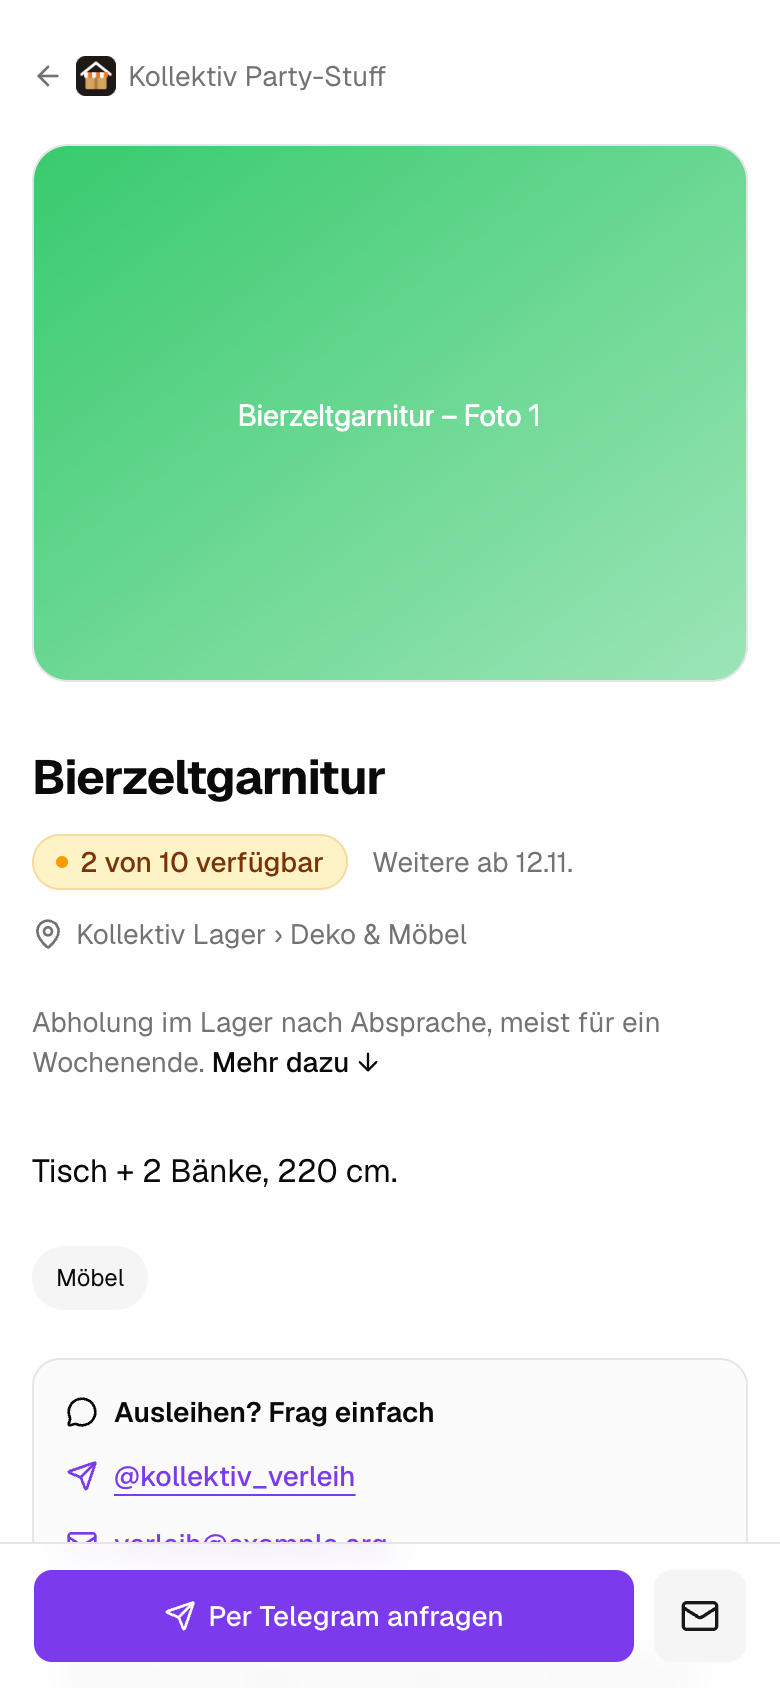
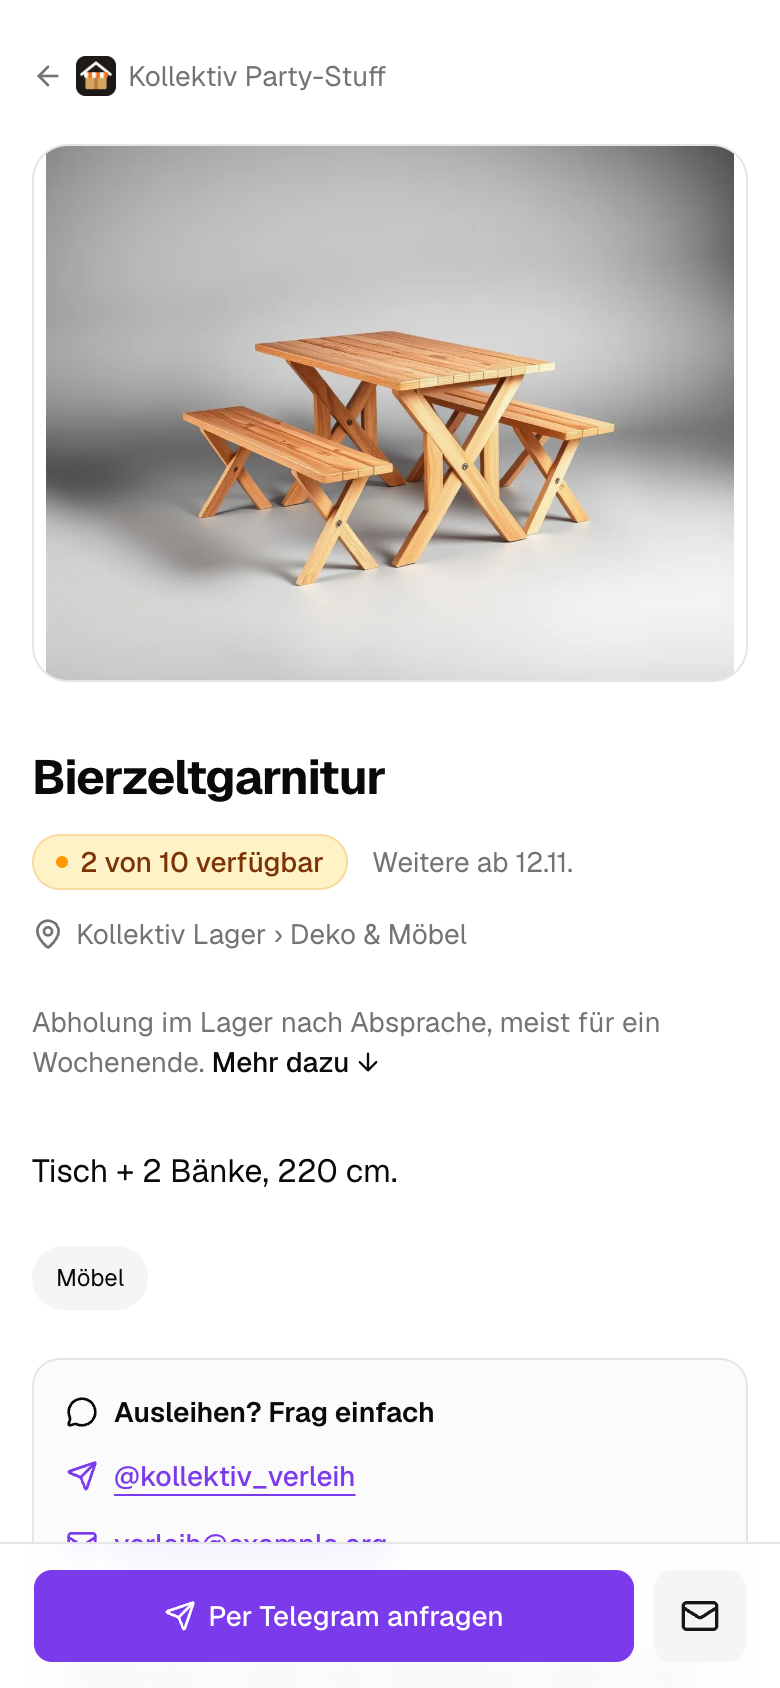
README auf Deutsch; Beispielfotos im Testmodus und neue Screenshots
Im Mock-Modus liefern KI-generierte Produktfotos (src/lib/homebox/mock-photos)
statt der farbigen SVG-Platzhalter; ohne Datei bleibt der Platzhalter.

Changed region(s): [[0.0308, 0.0616, 0.9538, 0.4005]]

diff --git a/src/lib/homebox/mock.ts b/src/lib/homebox/mock.ts
@@ -1,4 +1,6 @@
 import "server-only";
+import { existsSync, readFileSync } from "node:fs";
+import { join } from "node:path";
 import type { HomeboxApi } from "./client";
 import type { HbEntity, HbTreeItem } from "./types";
 
@@ -86,17 +88,36 @@ function tag(name: string) {
   return { id: tagIds.get(name)!, name };
 }
 
+/**
+ * Beispielfotos (KI-generiert, frei verwendbar) unter mock-photos/<item-id>.webp, weitere
+ * Ansichten als <item-id>-2.webp usw. Ohne Datei gibt es den farbigen SVG-Platzhalter.
+ */
+const PHOTO_DIR = join(/*turbopackIgnore: true*/ process.cwd(), "src/lib/homebox/mock-photos");
+
+function photoFile(itemId: string, n: number): string | null {
+  const f = join(PHOTO_DIR, n === 1 ? `${itemId}.webp` : `${itemId}-${n}.webp`);
+  return existsSync(f) ? f : null;
+}
+
+/** Anzahl Fotos: echte Dateien, wenn vorhanden (keine Doppelten), sonst wie im Seed */
+function photoCount(s: Seed): number {
+  if (!photoFile(s.id, 1)) return s.photos ?? 0;
+  let n = 1;
+  while (photoFile(s.id, n + 1)) n++;
+  return n;
+}
+
 function build(): Map<string, HbEntity> {
   const byId = new Map(seeds.map((s) => [s.id, s]));
   const store = new Map<string, HbEntity>();
   for (const s of seeds) {
     const parent = s.parent ? byId.get(s.parent) : undefined;
     const attachments = [
-      ...Array.from({ length: s.photos ?? 0 }, (_, i) => ({
+      ...Array.from({ length: photoCount(s) }, (_, i) => ({
         id: `${s.id}-photo-${i + 1}`,
         type: "photo",
         title: `${s.name} – Foto ${i + 1}`,
-        mimeType: "image/svg+xml",
+        mimeType: photoFile(s.id, i + 1) ? "image/webp" : "image/svg+xml",
         primary: i === 0,
       })),
       ...(s.manual
@@ -186,6 +207,12 @@ export const mockApi: HomeboxApi = {
     if (a.type !== "photo") {
       const pdf = "%PDF-1.1\n1 0 obj<</Type/Catalog/Pages 2 0 R>>endobj 2 0 obj<</Type/Pages/Kids[3 0 R]/Count 1>>endobj 3 0 obj<</Type/Page/Parent 2 0 R/MediaBox[0 0 300 144]>>endobj\ntrailer<</Root 1 0 R>>\n%%EOF";
       return { body: new TextEncoder().encode(pdf).buffer as ArrayBuffer, contentType: "application/pdf" };
+    }
+    const n = Number(attachmentId.match(/-photo-(\d+)$/)?.[1] ?? 1);
+    const file = photoFile(entityId, n);
+    if (file) {
+      const buf = readFileSync(file);
+      return { body: buf.buffer.slice(buf.byteOffset, buf.byteOffset + buf.byteLength) as ArrayBuffer, contentType: "image/webp" };
     }
     return {
       body: new TextEncoder().encode(placeholderSvg(a.title)).buffer as ArrayBuffer,

diff --git a/README.md b/README.md
@@ -5,128 +5,135 @@
 <h1 align="center">Homebox Front</h1>
 
 <p align="center">
-  A public, shop-like window onto your <a href="https://github.com/sysadminsmedia/homebox">Homebox</a>
-  inventory: send someone a link and they see what you have and whether it is free to borrow.
+  Ein öffentliches Schaufenster im Shop-Stil für dein <a href="https://github.com/sysadminsmedia/homebox">Homebox</a>-Inventar:
+  Schick jemandem einen Link, und er sieht, was du hast und ob es gerade zu haben ist.
 </p>
 
-> **A note on AI:** Homebox Front is developed by a human with AI assistance
-> (mostly Claude Code) helping write, refactor and review code. It's not "vibe
-> coded" or auto-generated: every change is reviewed, tested against a live
-> Homebox and shipped intentionally. That said, I'm all in on AI as a
-> development tool. It massively speeds up the work and lets a solo developer
-> ship features and fixes at a pace that wouldn't be possible otherwise. I'm
-> sharing this openly so you know what's behind the project.
+> **Ein Hinweis zu KI:** Homebox Front wird von einem Menschen entwickelt, mit
+> KI-Unterstützung (vor allem Claude Code) beim Schreiben, Umbauen und Prüfen von
+> Code. Es ist weder „vibe coded“ noch automatisch generiert: Jede Änderung wird
+> geprüft, gegen ein echtes Homebox getestet und bewusst veröffentlicht. Trotzdem
+> setze ich voll auf KI als Entwicklungswerkzeug. Sie beschleunigt die Arbeit enorm
+> und erlaubt einem Einzelentwickler ein Tempo bei Features und Fehlerbehebungen,
+> das sonst nicht möglich wäre. Ich sage das offen, damit du weißt, was hinter dem
+> Projekt steckt.
 
-Homebox is great for keeping track of what you own, but it is an internal tool.
-Homebox Front puts a friendly, read-only storefront in front of it. A collective
-can show the party gear it lends out, friends can see which machines you would
-lend them, and nobody needs a Homebox account to look.
+Homebox ist großartig, um den Überblick über die eigenen Sachen zu behalten, aber
+es ist ein internes Werkzeug. Homebox Front stellt ihm ein freundliches,
+öffentliches Schaufenster voran. Ein Kollektiv kann zeigen, welches Party-Equipment
+es verleiht, Freunde sehen, welche Maschinen du ihnen leihen würdest, und niemand
+braucht dafür ein Homebox-Konto.
 
-Each **page** has its own link and shows one or more Homebox locations, including
-everything below them. Visitors browse, search and filter like in an online shop,
-see at a glance what is available or lent until when, and contact you through the
-buttons on each item. **Homebox stays the single source of truth**: the app reads
-everything through the Homebox API and only ever writes one custom field, `Verleih`
-(lending), which you can also edit by hand in Homebox.
+Jede **Page** hat einen eigenen Link und zeigt einen oder mehrere Homebox-Lagerorte
+samt allem, was darin liegt. Besucher stöbern, suchen und filtern wie in einem
+Online-Shop, sehen auf einen Blick, was verfügbar oder bis wann verliehen ist, und
+melden sich über die Buttons am jeweiligen Teil. **Homebox bleibt die einzige
+Datenquelle**: Die App liest alles über die Homebox-API und schreibt nur ein
+einziges eigenes Feld, `Verleih`, das du auch von Hand in Homebox bearbeiten kannst.
 
-The interface is in German.
+## So sieht es aus
 
-## What it looks like
+Eine Page im Layout *Schaufenster* mit eigenem Logo und eigener Akzentfarbe.
+Lagerorte und Homebox-Tags werden zu Filtern; markiert ist nur, was *nicht* frei
+verfügbar ist.
 
-A page in the *showcase* layout, with its own logo and accent colour. Locations
-and Homebox tags become filters; only what is *not* freely available is marked.
+![Schaufenster: Header mit Logo, Titel und Suche, Filter nach Lagerort und Kategorie, Kacheln](docs/screenshots/shop-showcase.png)
 
-![A showcase page: header with logo, title and search, location and category filters, item cards](docs/screenshots/shop-showcase.png)
+Das Layout *Klassischer Shop* mit Seitenleiste und eine Detailseite mit Galerie,
+Markdown-Beschreibung, Anleitungen und einem Button pro Kontaktweg.
 
-The *classic shop* layout with a sidebar, and an item page with gallery,
-Markdown description, manuals and one button per contact channel.
+![Klassischer Shop mit Filtern in der Seitenleiste](docs/screenshots/shop-classic.png)
 
-![Classic shop layout with sidebar filters](docs/screenshots/shop-classic.png)
+![Detailseite: Galerie, Status, Kontakt-Buttons, Beschreibung, Fakten und Anleitung](docs/screenshots/item-detail.png)
 
-![Item page: gallery, status, contact buttons, description, facts and manual](docs/screenshots/item-detail.png)
-
-Built for the phone, because links are shared via messenger. The request button
-stays under the thumb; partially lent items say how many are left and when more
-come back.
+Fürs Handy gebaut, weil Links meist per Messenger verschickt werden. Der
+Anfrage-Button bleibt unter dem Daumen; teilweise verliehene Teile sagen, wie viele
+noch da sind und wann weitere zurückkommen.
 
 <p>
-  <img src="docs/screenshots/mobile-shop.png" alt="Mobile shop page" width="300">
-  <img src="docs/screenshots/mobile-item.png" alt="Mobile item page with fixed request bar" width="300">
+  <img src="docs/screenshots/mobile-shop.png" alt="Shop am Handy" width="300">
+  <img src="docs/screenshots/mobile-item.png" alt="Detailseite am Handy mit fester Anfrage-Leiste" width="300">
 </p>
 
-Light and dark follow the device, or can be forced in the settings.
+Hell und dunkel richten sich nach dem Gerät oder lassen sich in den Einstellungen festlegen.
 
-![The showcase page in dark mode](docs/screenshots/dark-shop.png)
+![Das Schaufenster im Dunkelmodus](docs/screenshots/dark-shop.png)
 
-The admin: lend several items in one go with a return date and a private
-borrower name, and configure each page.
+Die Verwaltung: mehrere Teile auf einmal verleihen, mit Rückgabedatum und einem
+privaten Namen, und jede Page einrichten.
 
-![Admin item list with three items selected and the bulk lending bar open](docs/screenshots/admin-items-bulk.png)
+![Item-Liste im Admin mit drei ausgewählten Teilen und geöffneter Verleih-Leiste](docs/screenshots/admin-items-bulk.png)
 
-![Admin page editor](docs/screenshots/admin-page-form.png)
+![Page-Editor im Admin](docs/screenshots/admin-page-form.png)
 
-## Features
+Die Produktfotos in den Screenshots sind KI-generierte Beispielbilder aus dem
+Testmodus, kein echtes Inventar.
 
-**For visitors**
-- Shop-style pages per link: search, filter by location and category (Homebox tags),
-  "only available", pagination. Filters live in the URL, so a filtered view can be shared.
-- Honest availability: "Verfügbar", "2 von 10 verfügbar", "Verliehen bis 14.11.",
-  "Wieder da ab …". A loan ends automatically after its date. Who borrowed something
-  is never shown publicly.
-- Item pages with a swipeable gallery and fullscreen view, Markdown descriptions,
-  manuals and other attachments (per page you choose which kinds are shown).
-- One button per contact channel: Telegram, mail (pre-filled with the item name),
-  phone, plus WhatsApp/Signal links from the free-text notes.
-- Optional password per page.
+## Funktionen
 
-**Per page**
-- Three layouts: classic shop, showcase with header, compact list.
-- Logo, accent colour (presets or custom; kept readable in light and dark and away
-  from the red/green used for availability), intro text, contact heading,
-  "So läuft's" (how borrowing works) and which item fields are visible.
+**Für Besucher**
+- Eine Page pro Link im Shop-Stil: Suche, Filter nach Lagerort und Kategorie
+  (Homebox-Tags), „Nur verfügbare“, Seitenweise laden. Filter stehen im Link, eine
+  gefilterte Ansicht lässt sich also weiterschicken.
+- Ehrliche Verfügbarkeit: „Verfügbar“, „2 von 10 verfügbar“, „Verliehen bis 14.11.“,
+  „Wieder da ab …“. Ein Verleih endet nach seinem Datum von selbst. Wer etwas
+  geliehen hat, ist öffentlich nie sichtbar.
+- Detailseiten mit wischbarer Galerie und Großansicht, Markdown-Beschreibungen,
+  Anleitungen und weiteren Anhängen (pro Page wählbar, welche Arten sichtbar sind).
+- Ein Button pro Kontaktweg: Telegram, Mail (mit dem Namen des Teils vorausgefüllt),
+  Telefon, dazu WhatsApp- und Signal-Links aus den weiteren Hinweisen.
+- Optionales Passwort pro Page.
 
-**For you (single admin)**
-- Lend and return from the admin list, or directly on a public item page while logged in.
-- Lend several items at once, with quantities, date presets and borrower suggestions.
-- Everything is written to Homebox; partial quantities are supported.
-- Items with a hidden tag (default `privat`) never appear on any page.
+**Pro Page**
+- Drei Layouts: Klassischer Shop, Schaufenster mit Header, Kompakte Liste.
+- Logo, Akzentfarbe (Vorschläge oder frei; bleibt in hell und dunkel lesbar und hält
+  Abstand zum Rot und Grün der Verfügbarkeit), Einleitung, Kontakt-Überschrift,
+  „So läuft's“ und welche Infos zu den Teilen sichtbar sind.
 
-## How it works
+**Für dich (ein Admin)**
+- Verleihen und zurücknehmen in der Item-Liste im Admin oder direkt auf der
+  öffentlichen Detailseite, wenn du eingeloggt bist.
+- Mehrere Teile auf einmal verleihen, mit Mengen, Datums-Schnellwahl und
+  Namensvorschlägen.
+- Alles wird in Homebox gespeichert; Teilmengen sind möglich.
+- Teile mit einem versteckten Tag (Standard `privat`) erscheinen auf keiner Page.
 
-| What | Where |
+## Wie es funktioniert
+
+| Was | Wo |
 |---|---|
-| Items, photos, manuals, locations, tags | Homebox (read via API) |
-| Lending | Homebox custom field `Verleih` on the item |
-| Pages, passwords, logos, colours, settings | Local SQLite file (`data/app.db`) |
+| Teile, Fotos, Anleitungen, Lagerorte, Tags | Homebox (gelesen über die API) |
+| Verleih | Homebox-Feld `Verleih` am Teil |
+| Pages, Passwörter, Logos, Farben, Einstellungen | Lokale SQLite-Datei (`data/app.db`) |
 
-The `Verleih` field holds one entry per loan, separated by `; `:
+Das Feld `Verleih` enthält pro Verleih einen Eintrag, getrennt durch `; `:
 
 ```
 6× bis 2026-11-14 (Max); 2× bis 2026-12-01
 ```
 
-`N×` is the quantity (default 1), `bis YYYY-MM-DD` the last day of the loan
-(Europe/Berlin), `(…)` an optional borrower that only the admin sees. Available =
-quantity minus active loans. The parser is tolerant, so you can edit the field by
-hand in Homebox; unreadable entries are kept and flagged in the admin, never
-silently dropped.
+`N×` ist die Menge (Standard 1), `bis JJJJ-MM-TT` der letzte Tag des Verleihs
+(Europe/Berlin), `(…)` ein optionaler Name, den nur der Admin sieht. Verfügbar =
+Menge minus aktive Verleihe. Das Format wird tolerant gelesen, du kannst das Feld
+also auch von Hand in Homebox ändern; unlesbare Einträge bleiben erhalten und
+werden im Admin markiert, nie stillschweigend gelöscht.
 
-When the app writes, it reads the item fresh, changes only `Verleih`, sends the
-complete item back (Homebox clears fields that are missing from a `PUT`) and reads
-it again to make sure nothing else changed.
+Beim Schreiben liest die App das Teil frisch, ändert nur `Verleih`, schickt das
+vollständige Teil zurück (Homebox leert sonst Felder, die in einem `PUT` fehlen)
+und liest es danach erneut, um sicherzugehen, dass sich sonst nichts geändert hat.
 
-Homebox data is cached for up to 60 seconds. Lending from the app refreshes it
-immediately; for changes made directly in Homebox there is a reload button in
-the admin.
+Daten aus Homebox werden bis zu 60 Sekunden zwischengespeichert. Ein Verleih aus
+der App aktualisiert sofort; für Änderungen direkt in Homebox gibt es im Admin
+einen Button zum Neuladen.
 
-## Quick start
+## Schnellstart
 
-### Prerequisites
+### Voraussetzungen
 
-- Node.js 22.5 or newer (uses the built-in `node:sqlite`)
-- A Homebox instance (v0.26 or newer, tested with 0.27) and an API key from it
+- Node.js 22.5 oder neuer (nutzt das eingebaute `node:sqlite`)
+- Eine Homebox-Instanz (ab v0.26, getestet mit 0.27) und ein API-Key daraus
 
-### 1. Install
+### 1. Installieren
 
 ```bash
 git clone https://github.com/stanislavhannes/homebox-front.git
@@ -135,68 +142,69 @@ npm install
 cp .env.example .env.local
 ```
 
-### 2. Configure `.env.local`
+### 2. `.env.local` ausfüllen
 
 ```bash
-# Your Homebox and an API key (Homebox → Profile → API keys)
+# Deine Homebox und ein API-Key (Homebox → Profil → API-Keys)
 HOMEBOX_URL=https://homebox.example.org
 HOMEBOX_TOKEN=
 
-# Password for /admin
+# Passwort für /admin
 ADMIN_PASSWORD=
 
-# Random secret for cookies, at least 32 characters: openssl rand -base64 48
+# Zufälliger Schlüssel für Cookies, mind. 32 Zeichen: openssl rand -base64 48
 SESSION_SECRET=
 
-# Where pages and settings are stored
+# Wo Pages und Einstellungen gespeichert werden
 DATABASE_PATH=data/app.db
 
-# 1 = sample data instead of Homebox, to try it without a token (writes nothing)
+# 1 = Beispieldaten statt Homebox, zum Ausprobieren ohne Token (schreibt nichts)
 HOMEBOX_MOCK=0
 ```
 
-### 3. Run
+### 3. Starten
 
 ```bash
-npm run dev            # development, http://localhost:3000
-# or
+npm run dev            # Entwicklung, http://localhost:3000
+# oder
 npm run build && npm run start
 ```
 
-Open `/admin`, log in, create a page, pick its locations and share the link.
-The start page `/` deliberately lists nothing; pages are only found through
-their link.
+`/admin` öffnen, einloggen, eine Page anlegen, Lagerorte wählen und den Link teilen.
+Die Startseite `/` listet bewusst nichts auf; Pages findet man nur über ihren Link.
 
-## Security
+## Sicherheit
 
-- The Homebox API key never leaves the server.
-- Photos and attachments are served through a proxy that checks that the item
-  belongs to the requested, published (and unlocked) page and that the attachment
-  type is enabled for it. Guessing IDs gets you nothing.
-- Borrower names, lending controls and other admin-only data are only rendered
-  for a logged-in admin.
-- Page passwords and the admin session use signed, http-only cookies; failed
-  logins are rate-limited.
+- Der Homebox-API-Key verlässt nie den Server.
+- Fotos und Anhänge laufen über einen Proxy, der prüft, dass das Teil zur
+  aufgerufenen, veröffentlichten (und freigeschalteten) Page gehört und die
+  Anhang-Art dort freigegeben ist. IDs zu raten bringt nichts.
+- Namen von Ausleihenden, Verleih-Funktionen und andere Admin-Daten werden nur
+  für einen eingeloggten Admin ausgegeben.
+- Page-Passwörter und die Admin-Sitzung nutzen signierte, http-only Cookies;
+  Fehlversuche beim Login werden begrenzt.
 
-## Development
+## Entwicklung
 
 ```bash
-npm test               # unit tests (vitest): lending parser, availability, PUT body, contacts …
-npx tsc --noEmit       # type check
-npx eslint src         # lint
+npm test               # Unit-Tests (vitest): Verleih-Format, Verfügbarkeit, PUT-Body, Kontakte …
+npx tsc --noEmit       # Typprüfung
+npx eslint src         # Lint
 ```
 
-Built with Next.js 16 (App Router, Cache Components), React 19, Tailwind CSS 4 and
-shadcn/ui. Design notes live in [`DESIGN.md`](DESIGN.md), product context in
-[`PRODUCT.md`](PRODUCT.md).
+Mit `HOMEBOX_MOCK=1` läuft die App mit Beispieldaten und Beispielfotos, ganz ohne Homebox.
 
-## Project layout
+Gebaut mit Next.js 16 (App Router, Cache Components), React 19, Tailwind CSS 4 und
+shadcn/ui. Gestaltungsregeln stehen in [`DESIGN.md`](DESIGN.md), der Produkt-Kontext
+in [`PRODUCT.md`](PRODUCT.md).
+
+## Projektstruktur
 
 ```
-src/app/[slug]/            public pages and item pages
-src/app/admin/             admin (pages, items/lending, settings)
-src/app/api/               image/attachment proxy, page logos
-src/components/shop/       shop views, cards, gallery, contact
-src/lib/homebox/           Homebox API client, mock data, safe updates
-src/lib/loans.ts           lending format and availability
+src/app/[slug]/            öffentliche Pages und Detailseiten
+src/app/admin/             Verwaltung (Pages, Items/Verleih, Einstellungen)
+src/app/api/               Proxy für Fotos/Anhänge, Page-Logos
+src/components/shop/       Shop-Ansichten, Kacheln, Galerie, Kontakt
+src/lib/homebox/           Homebox-API-Client, Beispieldaten, sicheres Schreiben
+src/lib/loans.ts           Verleih-Format und Verfügbarkeit
 ```
